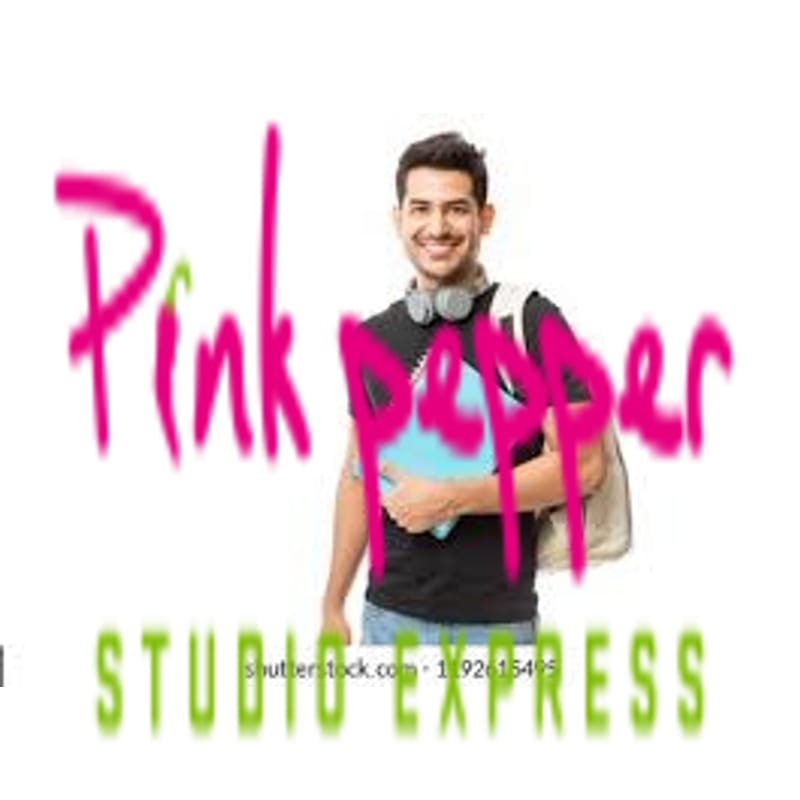
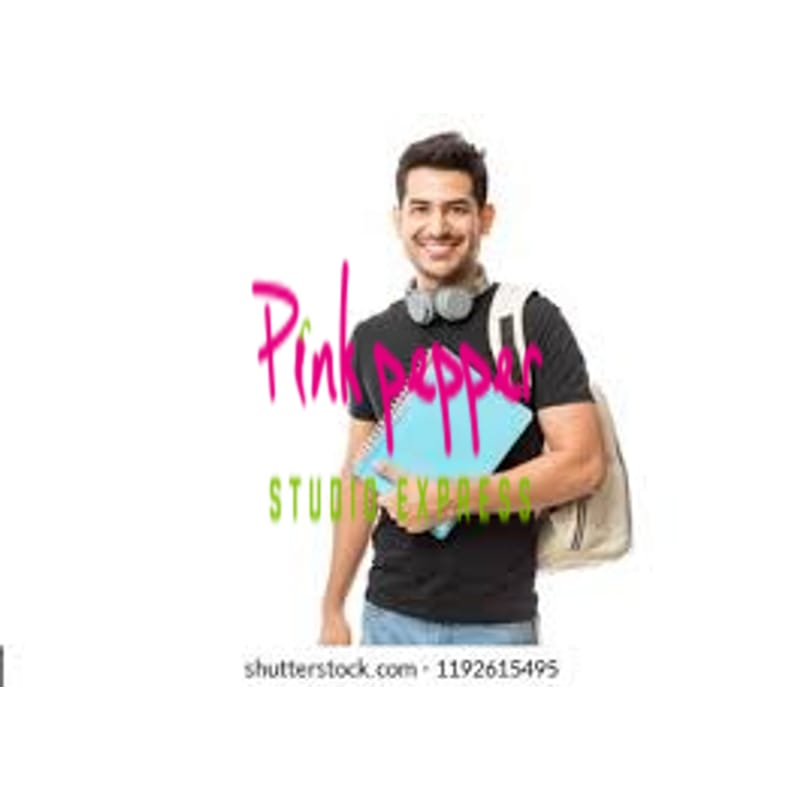
second commi

Changed region(s): [[0.0625, 0.1562, 0.9375, 0.75], [0.4688, 0.7812, 0.9062, 0.9375], [0.0938, 0.7812, 0.4375, 0.9375]]

diff --git a/controllers/adminController.js b/controllers/adminController.js
@@ -120,9 +120,9 @@ async function resizeImage(fileName) {
       .toFormat('jpeg', { mozjpeg: true })
       .composite([
         {
-          input: maindir + '/public/images/overlayb.png',
-          top: 100,
-          left: 50,
+          input: maindir + '/public/images/overlay.png',
+          top: 250,
+          left: 250,
         },
       ])
 
